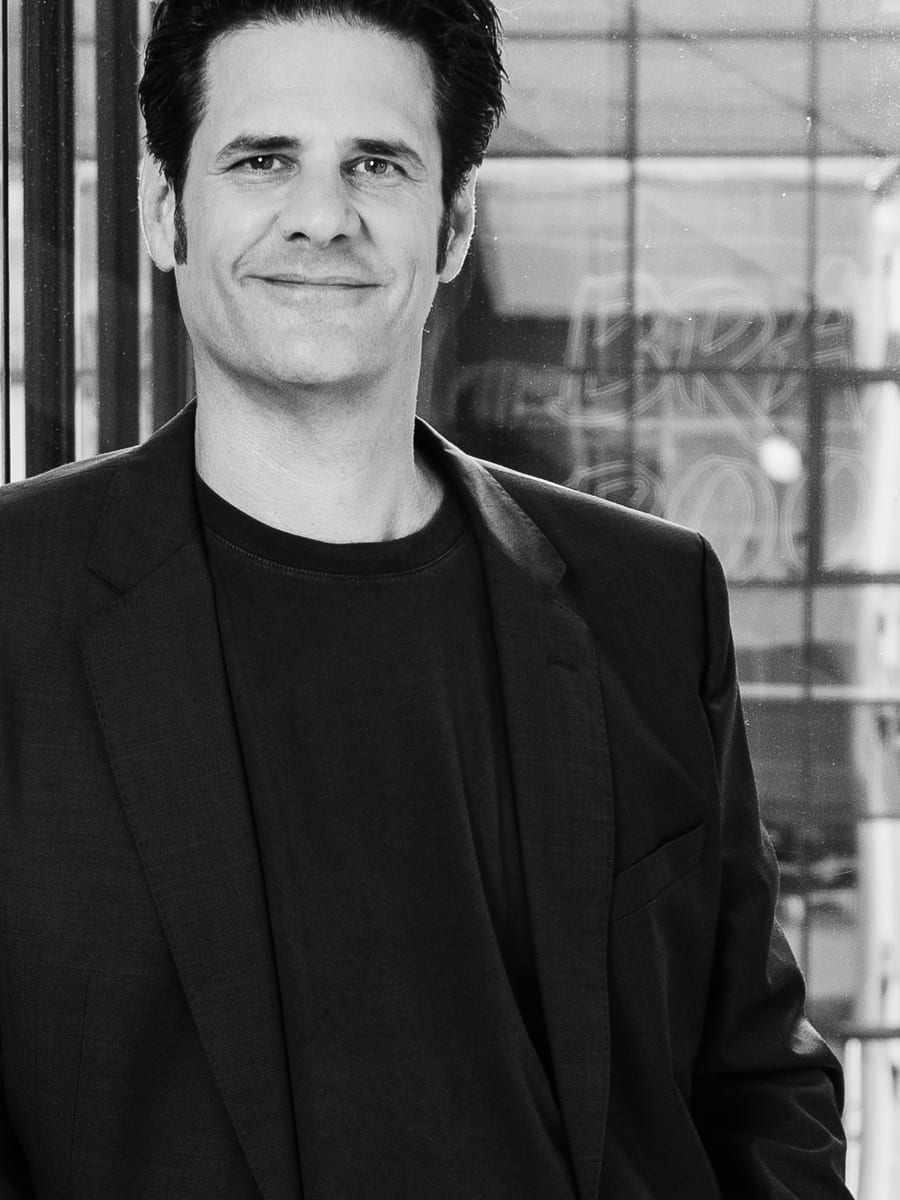
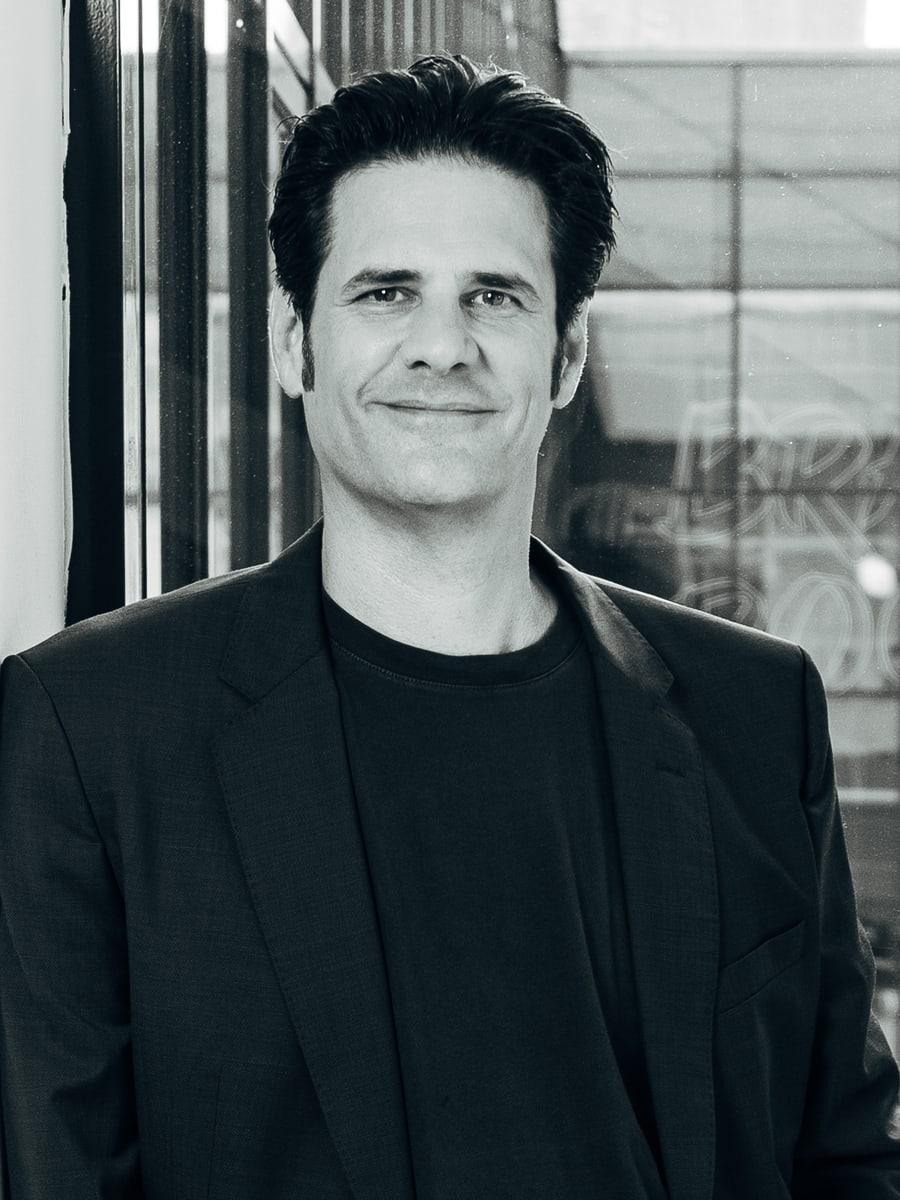
Social-Feed: eigener Slider mit Elfsight-Instagram-Daten (statt iframe-Widget) + Michael Laegel kleiner/tiefer
- ElfsightFeed rendert wieder UNSEREN AlgarveCareerSocialSlider (eigenes Design),
  zieht die Posts aber aus Elfsights Data-Service (widget-data.service.elfsight.com,
  pid 40d4e231-…) -> endlich Instagram @banijaygermany im gewohnten Karten-Layout.
  Kein Fremd-iframe/platform.js mehr. Fetch faellt weich aus (Section blendet sich aus).
- Michael Laegel neu gecroppt: ~10% kleiner, weiter runter, Scheitel buendig mit
  Marcus/Knut (an Row1-Kontaktbogen vermessen).

diff --git a/src/components/cinematic/ElfsightFeed.tsx b/src/components/cinematic/ElfsightFeed.tsx
@@ -1,48 +1,95 @@
-"use client";
+import { AlgarveCareerSocialSlider, type SocialPost } from "./algarve/CareerSocialSlider";
 
-// Instagram-Feed @banijaygermany über ein von Banijay (Linda, 22.07.) eingerichtetes
-// Elfsight-Widget. Der Token/die Meta-Anbindung liegt in Elfsight — hier wird nur das
-// Widget als iframe (`<id>.elf.site`, exakt Lindas Embed) eingebettet. NICHT die
-// platform.js-App-Variante: Lindas ID ist eine Share-/iframe-ID, kein App-Widget
-// (`elfsight-app-<id>` liefert damit WIDGET_NOT_FOUND). Eigene „#BanijayGermany"-Section.
+// Instagram-Feed @banijaygermany (Wolfram 22.07.) — ARCHITEKTUR WIE GEHABT:
+// Wir ziehen die Posts server-seitig als JSON und rendern sie über UNSEREN eigenen
+// Banijay-Slider (AlgarveCareerSocialSlider), NICHT über das Elfsight-iframe-Widget.
+// Damit sieht der Feed exakt aus wie der bisherige Juicer-Slider, hat aber endlich die
+// Instagram-Posts (die in Juicer fehlten) — Banijay hat die Meta-/Instagram-Anbindung
+// in Elfsight eingerichtet (Linda, 22.07.), wir greifen nur die Daten dahinter ab.
+//
+// Datenquelle: der Data-Service, den auch das Elfsight-Widget nutzt. Die Widget-App-ID
+// aus Lindas Embed (d46ee32f-…) verweist auf diese Instagram-„Source" mit der pid unten.
+// Endpoint per Netzwerk-Analyse des Widgets ermittelt (widget-data.service.elfsight.com).
+// ⚠ Undokumentierter Endpoint — vor Livegang gegen die offizielle Meta-/Instagram-API
+//    absichern (Task #59); fällt der Fetch aus, blendet sich die Section einfach aus.
+const ELF_PID = "40d4e231-a0fb-42fc-adbf-eec3b3e74c72";
+const ELF_SOURCE = encodeURIComponent(JSON.stringify({ pid: ELF_PID, filters: [] }));
+const ELF_URL = `https://widget-data.service.elfsight.com/api/posts?sources[]=${ELF_SOURCE}&sort=date&limit=50&offset=0`;
 
-const ELF_APP = "d46ee32f1dd44015b2404ba3940c497a";
-const SHARP = "var(--font-sharp), sans-serif";
+type ElfMedia = { type?: string; url?: string; thumbnail?: { url?: string } | null };
+type ElfPost = { type?: string; link?: string; publishedAt?: string; caption?: string; media?: ElfMedia[] };
 
-export function ElfsightFeed({
-  appId = ELF_APP,
+// Instagram-Caption (Plain-Text mit \n, Hashtags, @mentions) auf eine Kartencopy kürzen.
+function toPlainText(s: string, max = 180): string {
+  const txt = (s ?? "")
+    .replace(/\s+/g, " ")
+    .replace(/&amp;/g, "&")
+    .replace(/&nbsp;/g, " ")
+    .trim();
+  return txt.length > max ? `${txt.slice(0, max).trimEnd()}…` : txt;
+}
+
+function formatDate(iso?: string): string {
+  if (!iso) return "";
+  const d = new Date(iso);
+  if (Number.isNaN(d.getTime())) return "";
+  return d.toLocaleDateString("de-DE", { day: "2-digit", month: "2-digit", year: "numeric" });
+}
+
+// Elfsight-Data-Service → unser SocialPost[]. Bild = erstes Medium mit Thumbnail (Album-
+// Cover/Foto); Video = mp4-URL (Reels haben KEIN Thumbnail — die Video-Karte tastet sich
+// selbst einen Frame ab, exakt wie beim bisherigen Juicer-Video-Post). Ohne Bild UND ohne
+// Video wird der Post übersprungen.
+export async function fetchElfsightPosts(limit = 12): Promise<SocialPost[]> {
+  try {
+    const res = await fetch(ELF_URL, {
+      headers: { "User-Agent": "Mozilla/5.0 (banijay.de social feed)" },
+      next: { revalidate: 3600 }, // 1 h cachen (wie der frühere Juicer-Feed)
+    });
+    if (!res.ok) return [];
+    const data = (await res.json()) as { payload?: Record<string, ElfPost> | ElfPost[] };
+    const payload = data.payload ?? {};
+    const posts: ElfPost[] = Array.isArray(payload) ? payload : Object.values(payload);
+
+    const seen = new Set<string>();
+    const out: SocialPost[] = [];
+    for (const p of posts) {
+      const media = p.media ?? [];
+      const image = media.find((m) => m.thumbnail?.url)?.thumbnail?.url ?? "";
+      const video = media.find((m) => m.type === "video" && m.url)?.url;
+      const url = p.link ?? "";
+      if ((!image && !video) || !url || seen.has(url)) continue;
+      seen.add(url);
+      out.push({
+        image,
+        video,
+        text: toPlainText(p.caption ?? ""),
+        url,
+        source: "Instagram",
+        date: formatDate(p.publishedAt),
+      });
+      if (out.length >= limit) break;
+    }
+    return out;
+  } catch {
+    return [];
+  }
+}
+
+export async function ElfsightFeed({
   headline = "#BanijayGermany",
   subline = "Neuigkeiten, Menschen und Momente — direkt aus unseren Kanälen.",
+  dark = true,
+  showText = false,
 }: {
-  appId?: string;
   headline?: string;
   subline?: string;
-}) {
+  dark?: boolean;
+  showText?: boolean;
+} = {}) {
+  const posts = await fetchElfsightPosts();
+  if (posts.length === 0) return null; // Feed nicht verfügbar → Section ausblenden
   return (
-    <section className="relative w-full overflow-clip" style={{ background: "transparent" }}>
-      <div className="mx-auto w-full" style={{ maxWidth: "1680px", padding: "clamp(3rem, 7vw, 7rem) 2vw clamp(3rem, 6vw, 6rem)" }}>
-        {headline ? (
-          <h2 className="m-0 uppercase text-[#f8f7f3]" style={{ fontFamily: SHARP, fontWeight: 500, fontSize: "clamp(2rem, 4.4vw, 4.6rem)", letterSpacing: "-0.03em", lineHeight: 1 }}>
-            {headline}
-          </h2>
-        ) : null}
-        {subline ? (
-          <p className="mt-3 max-w-[46rem]" style={{ color: "rgba(248,247,243,0.7)", fontSize: "clamp(0.95rem, 1.1vw, 1.15rem)", lineHeight: 1.4 }}>
-            {subline}
-          </p>
-        ) : null}
-
-        {/* Elfsight-Widget als iframe (Lindas Embed). Fixe Höhe (das Share-iframe skaliert
-            nicht selbst) — mobil höher, da der Grid dort auf weniger Spalten umbricht. */}
-        <div className="mt-[clamp(1.6rem,3vw,2.6rem)]">
-          <iframe
-            src={`https://${appId}.elf.site`}
-            title="Instagram — @banijaygermany"
-            loading="lazy"
-            className="h-[640px] w-full border-none max-[767px]:h-[760px]"
-          />
-        </div>
-      </div>
-    </section>
+    <AlgarveCareerSocialSlider posts={posts} headline={headline} subline={subline} dark={dark} showText={showText} />
   );
 }
